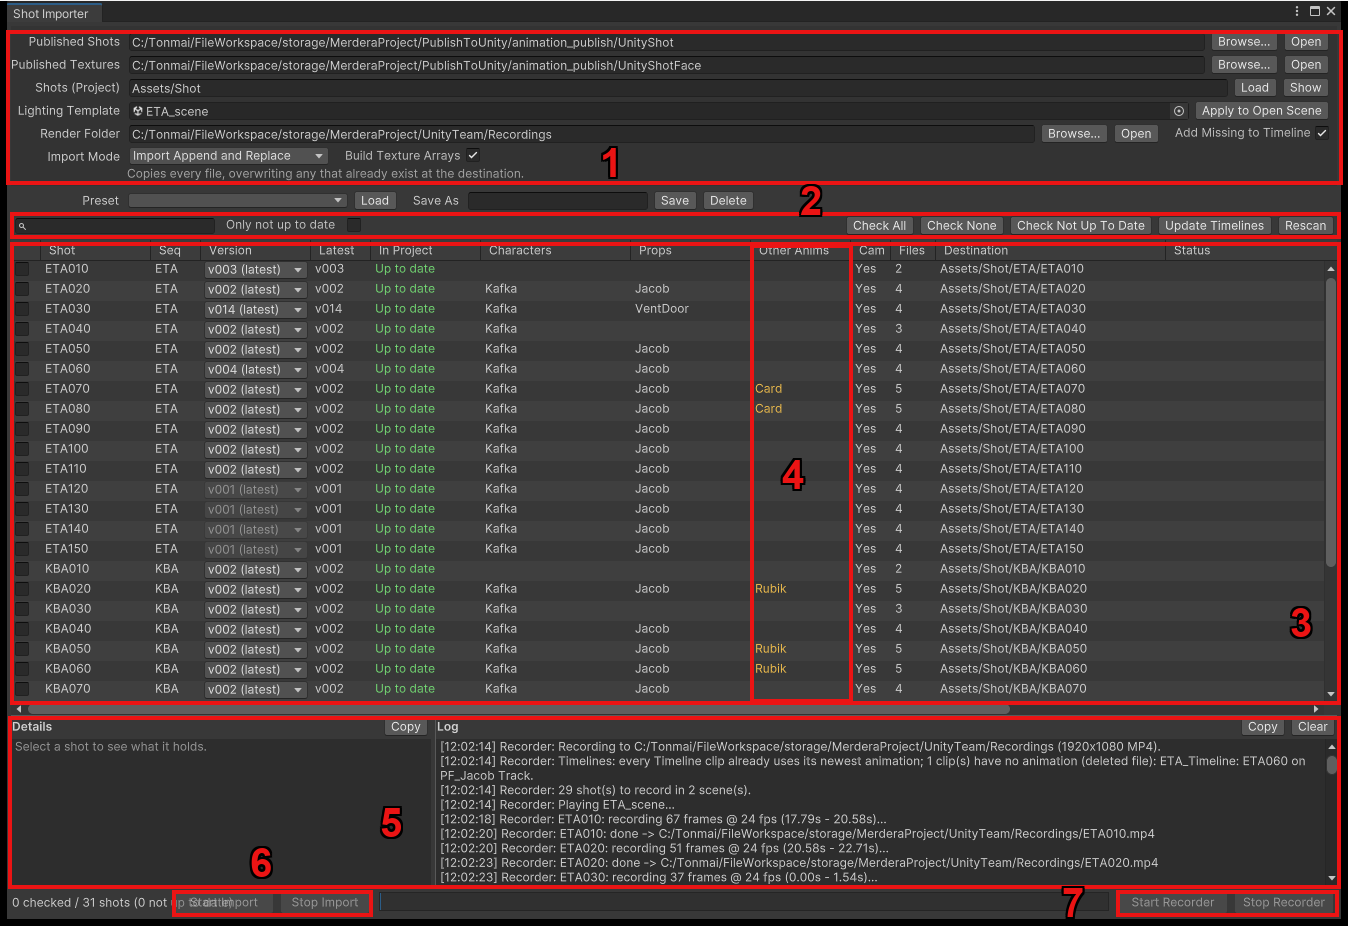
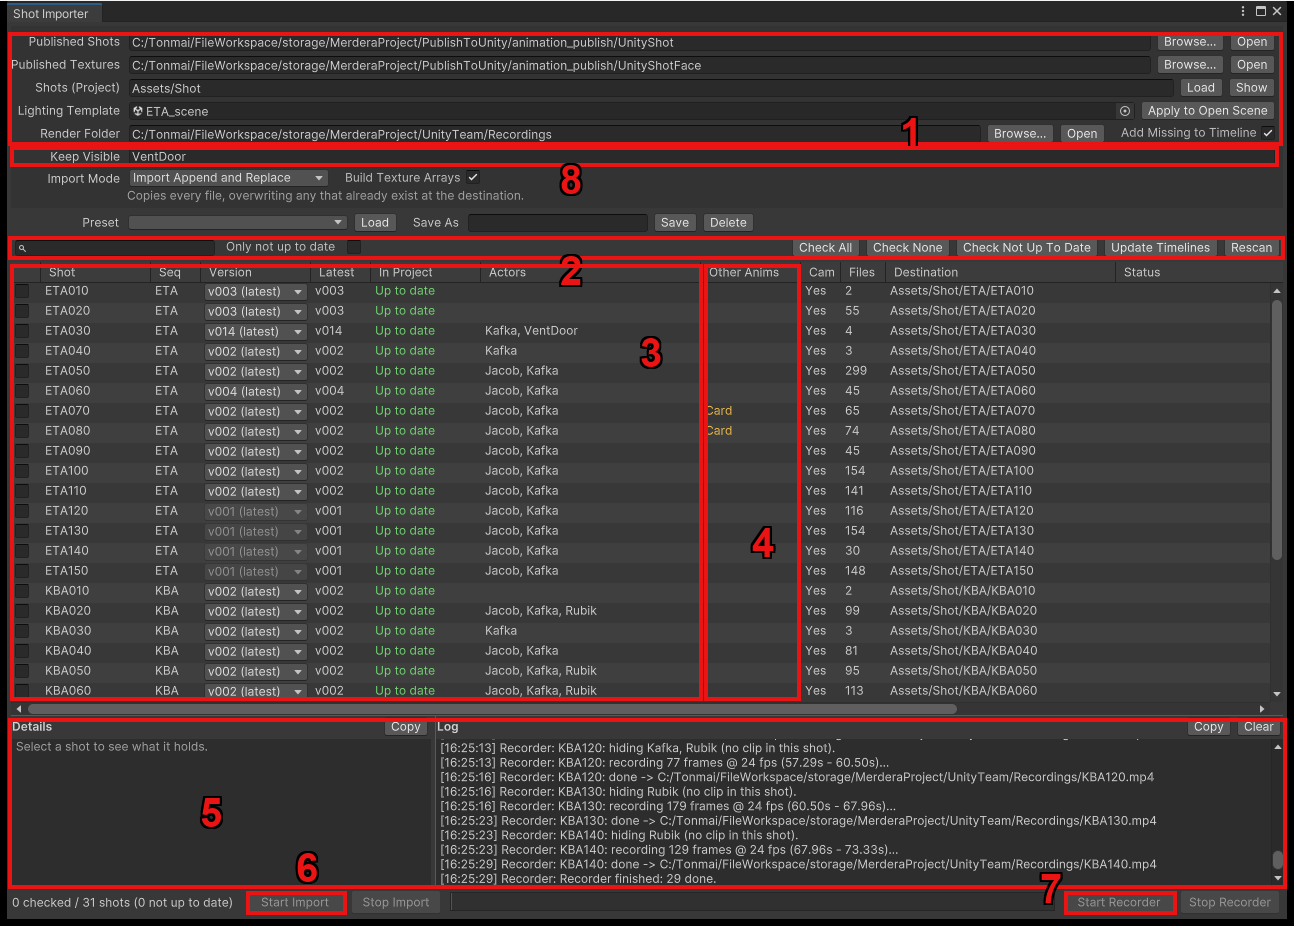
Shot Importer: Recorder hides actors with no clip in the shot, Keep Visible field

Changed region(s): [[0.0, 0.0, 1.0, 0.9978], [0.1546, 0.8467, 0.1855, 0.9071]]

diff --git a/docs/unity_ukore_shotimporter/quick-start.md b/docs/unity_ukore_shotimporter/quick-start.md
@@ -18,6 +18,7 @@
 5. **Details / Log** — คลิก Shot เพื่อดูว่ามีไฟล์อะไรบ้าง ส่วน Log บอกผลลัพธ์และคำเตือน
 6. **Start Import** — Import ทุก Shot ที่ติ๊กไว้
 7. **Start Recorder** — Render ทุก Shot ที่ติ๊กไว้เป็นวิดีโอ
+8. **Keep Visible** — ชื่อ Actor ที่ห้ามซ่อนตอน Render เช่นประตูในฉาก (ดู[ด้านล่าง](#auto))
 
 ---
 
@@ -62,6 +63,8 @@ Assets/SetupActor/          ← Actor ทุกตัวอยู่ใต้น
 
 ---
 
+<a id="auto"></a>
+
 ## ระบบทำอะไรให้อัตโนมัติ
 
 - **Timeline ใช้ Animation เวอร์ชันล่าสุดเสมอ** — Import เสร็จแล้ว Clip บน
@@ -70,6 +73,10 @@ Assets/SetupActor/          ← Actor ทุกตัวอยู่ใต้น
 - **Render:** ไม่ต้องเปิดฉากเอง ระบบหาฉากของ Shot นั้น แล้ว Render ผ่านกล้อง
   `RenderCam` ให้ ถ้าติ๊ก **Add Missing to Timeline** ไว้ Shot ที่ยังไม่อยู่บน
   Timeline จะถูกวางให้ก่อน
+- **ซ่อน Actor ที่ไม่ได้อยู่ใน Shot** — ตอน Render ถ้า Actor ตัวไหนไม่มี Clip ใน Shot
+  นั้น (เช่น Shot ที่ไม่มีตัวละครเลย) ระบบจะซ่อนตัวนั้นให้เอง ไม่ต้องลบออกจากฉาก
+  ส่วนชิ้นที่เป็นส่วนหนึ่งของฉาก เช่นประตู ให้ใส่ชื่อไว้ในช่อง **Keep Visible**
+  (คั่นด้วย `,` ค่าเริ่มต้นคือ `VentDoor`) แล้วจะไม่ถูกซ่อน
 
 !!! note
     Texture / Material (Lookdev) ของ Actor **ไม่ได้**อัปเดตผ่านหน้านี้ ให้แก้ที่
@@ -83,4 +90,6 @@ Assets/SetupActor/          ← Actor ทุกตัวอยู่ใต้น
 | --- | --- |
 | Actor ขึ้นใน **Other Anims** | ย้าย Model ไปไว้ใน `Assets/SetupActor` ให้ชื่อตรงกับใน Animation แล้วกด **Rescan** |
 | Timeline ยังเล่น Animation เก่า | กด **Update Timelines** |
+| ใน Render มีตัวละครค้างท่าจาก Shot อื่น | ตัวนั้นยังมี Clip ของ Shot นี้บน Timeline อยู่ ให้ลบ Clip นั้นออกจาก Track ของตัวนั้น (Import ใหม่ไม่ลบ Clip เก่าให้) |
+| ของในฉากหายไปตอน Render | ใส่ชื่อ Actor นั้นในช่อง **Keep Visible** |
 | Render ขึ้น **Failed** | เอาเมาส์ชี้ที่คอลัมน์ Render เพื่ออ่านสาเหตุ ส่วนใหญ่คือยังไม่ได้ Import หรือยังไม่ได้ติ๊ก **Add Missing to Timeline** |
